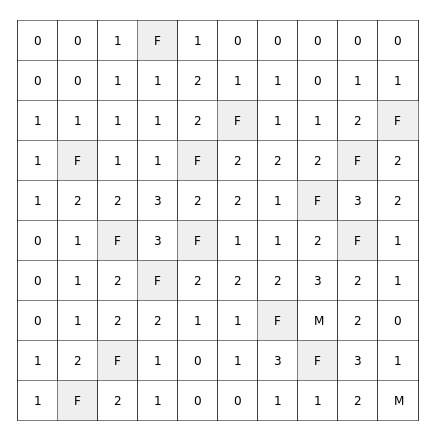
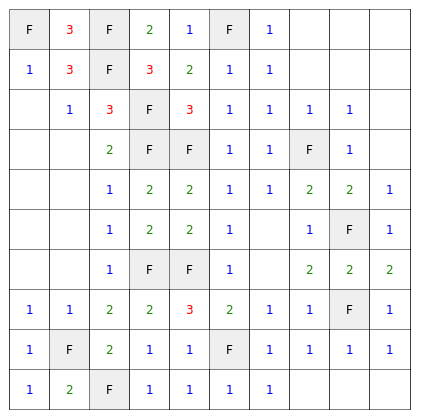
feat : couleur nombre & repartition

Changed region(s): [[0.0307, 0.031, 0.9835, 0.9905], [0.7069, 0.3405, 0.7376, 0.3714], [0.3381, 0.3405, 0.3688, 0.3714]]

diff --git a/src/map.ts b/src/map.ts
@@ -18,10 +18,12 @@ class MapDem {
 
     public get getX():number { return this.x }
     public get getY():number { return this.y }
+    public get getLx():number { return this.lx }
+    public get getLy():number { return this.ly }
     public get gCases():Case[] { return this.cases }
     public getCase(x:number, y:number):Case { return this.cases[y * this.lx + x] }
 
-    public initMine():number { return aleaMine(5) } // methode temporaire
+    public initMine():number { return aleaMine(3) } // methode temporaire
 
     public initMap():void {
         this.cases = superfor(this.lx, (i, r) => {
@@ -34,19 +36,31 @@ class MapDem {
     public drawMap():void { this.cases.map(x => x.drawCase()) }
 
     public evaluerCase(elem:Case):void {
-        if (elem.getMine !== 1)
+        if (elem.getMine === 0){
             elem.setNbMine(this.chercheMine(elem))
+            if ( elem.getNbMine === 0 ) this.etandCase(elem)
+        }
         else
             alert('mine')
     }
 
     public chercheMine(elem:Case, nbm:number = 0, acc:number = 0):number {
-        const x:number = elem.getNbX + vCase[acc].x, y:number = elem.getNbY + vCase[acc].y
-        const cond:boolean = x >= 0 && x < this.lx && y >= 0 && y < this.ly
-
-        const altX:number = cond ? x : elem.getNbX, altY:number = cond ? y : elem.getNbY
-        const nbMine:number = this.getCase(altX, altY).getMine === 1 ? nbm + 1 : nbm
+        const {x, y}:Coord = chercheCoord(elem, this, acc)
+        const nbMine:number = this.getCase(x, y).getMine === 1 ? nbm + 1 : nbm
 
         return acc < 7 ? this.chercheMine(elem, nbMine, acc + 1) : nbMine
+    }
+
+    public etandCase(elem:Case, acc:number = 0):number {
+        const {x, y}:Coord = chercheCoord(elem, this, acc)
+        const elemSuiv:Case = this.getCase(x, y)
+        elemSuiv.setNbMine(this.chercheMine(elemSuiv))
+        elemSuiv.toggleCase()
+
+        return acc < 7 ? this.etandCase(elem, acc + 1) : 0
+    }
+
+    public propagueCase(elem:Case):void {
+
     }
 }

diff --git a/src/case.ts b/src/case.ts
@@ -33,9 +33,11 @@ class Case {
 
     public drawCase():void {
         this.drawRect('#000000', '#EFEFEF')
+        const mine:string|number = this.getNbMine === 0 ? ' ' : this.getNbMine
+
         if (this.toggle === 1) {
             this.drawRect('#000000', '#FFFFFF')
-            this.drawText(this.getMine === 1 ? "M" : this.getNbMine)
+            this.drawText(this.getMine === 1 ? "M" : mine, this.getColorNbMine())
         }
         else if (this.flag === 1)
             this.drawText('F')
@@ -51,12 +53,47 @@ class Case {
         this.ctx.fillRect(this.getX, this.getY, this.t, this.t)
     }
 
-    public drawText(txt:any):void {
+    public drawText(txt:any, color:string = '#000000'):void {
         const t2:string = `${txt}`
         const x:number = this.getX + this.t / 2 - t2.length * this.police / 3
         const y:number = this.getY + this.t / 2 + this.police / 3
         this.ctx.font = `${this.police}px sans-serif`;
-        this.ctx.fillStyle = '#000000';
+        this.ctx.fillStyle = color;
         this.ctx.fillText(txt, x, y);
+    }
+
+    public getColorNbMine():string {
+        let color:string
+
+        switch (this.getNbMine) {
+            case 1 :
+                color = '#0000FF' // 08298A
+                break
+            case 2 :
+                color = '#298A08' // 298A08
+                break
+            case 3 :
+                color = '#FF0000' // B40404
+                break
+            case 4 :
+                color = '#00FFFF'
+                break
+            case 5 :
+                color = '#FF00FF'
+                break
+            case 6 :
+                color = '#FFFF00'
+                break
+            case 7 :
+                color = '#FF8000'
+                break
+            case 8 :
+                color = '#08298A'
+                break
+            case 9 :
+                color = '#FF0000'
+                break
+        }
+        return color
     }
 }

diff --git a/src/config.ts b/src/config.ts
@@ -15,7 +15,7 @@ const t_case:number = 40
 const mapx:number = width / 2 - (lx * t_case) / 2
 const mapy:number = height / 2 - (ly * t_case) / 2
 
-interface verifCase {
+interface Coord {
     x:number,
     y:number
 }
@@ -26,9 +26,17 @@ const superfor = (compt:number, f:(i:number, r:any) => any, acc:number = 0, r:an
 }
 
 const rand = (min:number, max:number):number => Math.floor(Math.random() * (max - min + 1) + min)
-const aleaMine = n => rand(0, n) === 0 ? 1 : 0
+const aleaMine = (n:number):number => rand(0, n) === 0 ? 1 : 0
 
-const vCase:verifCase[] = [
+const chercheCoord = (elem:Case, self:MapDem, i:number):Coord => {
+    const x:number = elem.getNbX + vCase[i].x, y:number = elem.getNbY + vCase[i].y
+    const cond:boolean = x >= 0 && x < self.getLx && y >= 0 && y < self.getLy
+    const altX:number = cond ? x : elem.getNbX, altY:number = cond ? y : elem.getNbY
+
+    return {x : altX, y : altY}
+}
+
+const vCase:Coord[] = [
     {x : 1, y : 0},
     {x : 1, y : 1},
     {x : 0, y : 1},

diff --git a/src/partie.ts b/src/partie.ts
@@ -7,7 +7,9 @@ class Partie {
     public get getPts():number { return this.pts }
     public get getMap():MapDem { return this.map }
 
-    public setMap(map:MapDem):void { this.map = map }
+    public setMap(ctx:any, mapx:number, mapy:number, lx:number, ly:number, t_case:number):void { 
+        this.map = new MapDem(ctx, mapx, mapy, ly, ly, t_case)
+    }
 
     public event(canvas:any):void {
         canvas.addEventListener('click', e => {

diff --git a/src/canvas.ts b/src/canvas.ts
@@ -1,5 +1,5 @@
 const part:Partie = new Partie()
-part.setMap(new MapDem(ctx, mapx, mapy, ly, ly, t_case))
+part.setMap(ctx, mapx, mapy, ly, ly, t_case)
 const map:MapDem = part.getMap
 
 map.initMap()
